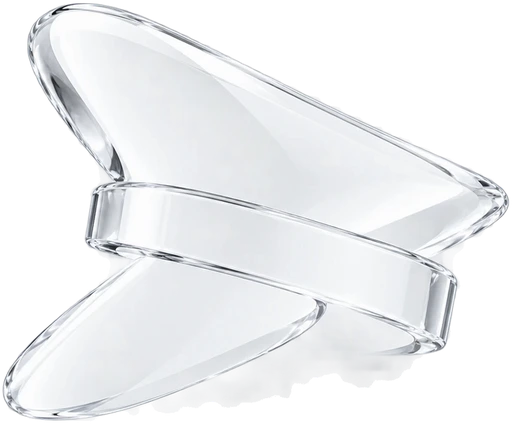
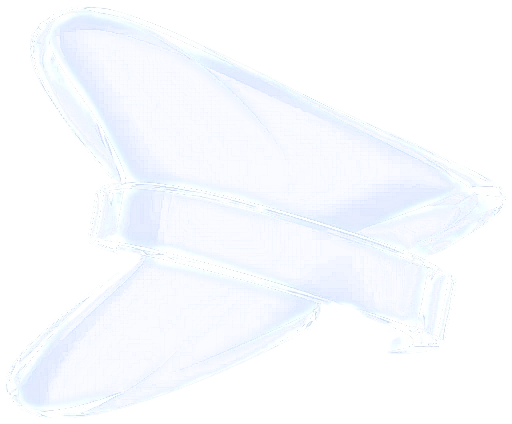
Fixes from the owner's review on staging
- Published list shows only this brand's posts made from the app (not every post on the shared publishing account)
- In-progress cards without an image show their section's glass icon (typography uses its cover) instead of an empty dark box
- Publish sections: the page header uses the same line icon as its tile; proper WhatsApp icon
- English home: the section name no longer appears twice
- Autopilot dark-mode icon is clear glass like the others
- Plans page: the plan-details button was pushed out of view; content now starts below the bar

Claude-Session: https://claude.ai/code/session_01P9QQ1ksSfAx6b9HF7mrN8g

diff --git a/studiomania/frontend/home2.js b/studiomania/frontend/home2.js
@@ -95,6 +95,11 @@ const NH = (() => {
   const GLKEY = { create: "app", brand: "brand", assets: "assets", dubhub: "voices", settings: "settings", progress: "progress", publish: "publish", reel: "reel", raw: "film",
     series: "series", carousel: "carousel", ad: "publish", typo: "create", dub: "voices", edit: "film", coaches: "characters", voice: "voices", music: "music", pilot: "autopilot", pubpost: "publish",
     inbox: "inbox", adsmgr: "adsmgr", audience: "audience", wacamp: "wacamp", bots: "inbox" };
+  // 📤 أيقونات أقسام النشر (خط بسيط): نفس الأيقونة في مربعات صفحة النشر وفي عنوان صفحة كل قسم لما تدخله
+  const PUB_IC = { pubpost: "M4 12l16-8-6 16-3-7z M11 13l9-9", inbox: "M4 5h16v11H9l-5 4z M8 9.5h8 M8 12.5h5", adsmgr: "M4 10v4h3l6 4V6L7 10z M16 9a4 4 0 0 1 0 6 M18.5 6.5a7.5 7.5 0 0 1 0 11",
+    audience: "M12 3a9 9 0 1 0 0 18 9 9 0 0 0 0-18z M12 7.5a4.5 4.5 0 1 0 0 9 4.5 4.5 0 0 0 0-9z M12 11a1 1 0 1 0 0 2 1 1 0 0 0 0-2z",
+    // فقاعة واتساب مستديرة بذيل تحت على الشمال، وجواها سماعة تليفون
+    wacamp: "M12 3.5a8.5 8.5 0 0 0-7.3 12.8L3.5 20.5l4.3-1.1A8.5 8.5 0 1 0 12 3.5z M9.3 8.3c.4-.5 1.1-.5 1.4 0l.7 1.3c.2.3.1.7-.1 1l-.5.5c.5 1 1.3 1.8 2.3 2.3l.5-.5c.3-.2.7-.3 1-.1l1.3.7c.5.3.5 1 0 1.4-.7.6-1.7.8-2.6.4-1.9-.8-3.4-2.3-4.2-4.2-.4-.9-.2-1.9.4-2.6z" };
   const iconOf = (k) => (k === "brand" ? `<div class="nh-plate">${brandMark()}</div>` : gi(k));
   const head = (id) => `<div class="nh-head"><div class="nh-name"><span class="latin en-k">${T[id].en}</span><b>${T[id].ar}</b></div>${GLKEY[id] ? `<span class="gi nh-glt">${glImg(GLKEY[id])}</span>` : iconOf(T[id].icon)}</div>`;
   const dots = (n, at) => `<div class="nh-dots">${Array.from({ length: n }, (_, i) => `<i class="${i < at ? "done" : i === at ? "now" : ""}"></i>`).join("")}</div>`;
@@ -294,7 +299,7 @@ const NH = (() => {
     }
     const t = T[key];
     if (window.I18N?.lang !== "en") return homeTitle(big(t.icon));
-    return `${big(t.icon)}<h1 class="latin">${t.en}</h1><div class="ar">${esc(t.ar)}</div>`;   // الاسم فقط، والشرح في فقاعة القسم
+    return `${big(t.icon)}<h1 class="latin">${t.en}</h1>`;   // الاسم مرة واحدة (السطر العربي كان بيتترجم لنفس الاسم بالإنجليزي فيتكرر)، والشرح في فقاعة القسم
   }
   // 🏠 عنوان الرئيسية ثابت (مش بيتغير مع القسم اللي الماوس عليه): «ابدأ من هنا» لحد ما العقل يفهمك ٣٠٪، وبعدها اسم العلامة
   function homeTitle(icon) {
@@ -489,7 +494,7 @@ const NH = (() => {
   const zooming = (on) => document.body.classList.toggle("nh-zooming", on);
 
   // صفحة جوه الرئيسية (اعمل جديد / الأصول / شغّال عليه): الأيقونة والاسم بيطيروا لحد ما يبقوا عنوان الصفحة
-  function glImg(key) { return `<img class="ic-l" src="/icons3d/${key}.webp?v=10" alt="" loading="lazy"><img class="ic-d" src="/icons3d/${key}_d.webp?v=10" alt="" loading="lazy">`; }
+  function glImg(key) { return `<img class="ic-l" src="/icons3d/${key}.webp?v=11" alt="" loading="lazy"><img class="ic-d" src="/icons3d/${key}_d.webp?v=11" alt="" loading="lazy">`; }
   const panel = (c, r, inner, attrs = "") => `<div class="nh-tile nh-panel" ${attrs} style="grid-column:span ${c};grid-row:span ${r}">${inner}</div>`;
   const PAGES = {
     // كل نوع كارت فيه أيقونته الزجاج الـ 3D (فاتحة وغامقة)، واسمه، وسطر بيشرح هيعمل إيه
@@ -506,8 +511,7 @@ const NH = (() => {
       const up = D.posts.filter((p) => p.status === "scheduled").length, bad = D.posts.filter((p) => p.status === "failed").length;
       const sub = { pubpost: up ? `${up} منشور متجدول${bad ? ` · ${bad} فشل` : ""}` : "جدول أول منشور", inbox: "التعليقات والرسائل والبوتات", adsmgr: "روّج وتابع الأرقام",
         audience: "من سيشتري، وكيف تصل إليه", wacamp: "رسائل لمشتركينك" };
-      const ic = { pubpost: "M4 12l16-8-6 16-3-7z M11 13l9-9", inbox: "M4 5h16v11H9l-5 4z M8 9.5h8 M8 12.5h5", adsmgr: "M4 10v4h3l6 4V6L7 10z M16 9a4 4 0 0 1 0 6 M18.5 6.5a7.5 7.5 0 0 1 0 11",
-        audience: "M12 3a9 9 0 1 0 0 18 9 9 0 0 0 0-18z M12 7.5a4.5 4.5 0 1 0 0 9 4.5 4.5 0 0 0 0-9z M12 11a1 1 0 1 0 0 2 1 1 0 0 0 0-2z", wacamp: "M4.5 19.5l1.2-3.6A8 8 0 1 1 8.6 18.6z M9 9.5c.3 2.3 2.2 4.2 4.5 4.5" };
+      const ic = PUB_IC;
       return `<div class="bl-hub nh-pubhub"><div class="bl-folds">${["pubpost", "inbox", "adsmgr", "audience", "wacamp"].map((id) => `<button type="button" class="bl-fd" data-id="${id}">
         <span class="bl-fi"><svg viewBox="0 0 24 24" width="30" height="30" aria-hidden="true"><path d="${ic[id]}"/></svg></span><b>${esc(T[id].ar)}</b><small>${esc(sub[id])}</small></button>`).join("")}</div></div>`;
     },
@@ -515,7 +519,9 @@ const NH = (() => {
   };
   // شغّال عليه (من البروتوتايب): دوّر، وفلتر بالحالة، وكل مشروع كارت بأيقونة قسمه وحالته
   const PJ_ICON = { series: "series", ads: "publish", free: "film" };
-  const PJ_AV = { series: "س", ads: "إ", free: "م" };   // دائرة صغيرة بأول حرف من القسم (مسلسل / إعلان / مونتاج حر)
+  const PJ_AV = { series: "س", ads: "إ", free: "م" };
+  // مشروع لسه مالوش صورة (مشهد لم يُولّد، دبلجة، تايبوجرافي): أيقونة قسمه الزجاج على الخلفية الفاتحة بدل مربع غامق فاضي
+  const DRAFT_IC = { scene: "film", dub: "voices", typo: "create", tv: "reel", flow: "create" };   // دائرة صغيرة بأول حرف من القسم (مسلسل / إعلان / مونتاج حر)
   const PJ_ART = ["linear-gradient(160deg, #4A4542, #24211F)", "linear-gradient(160deg, #57514C, #2B2724)", "linear-gradient(160deg, #46403C, #1E1B19)", "linear-gradient(160deg, #3A3836, #181718)", "linear-gradient(160deg, #4F5A63, #22282D)", "linear-gradient(160deg, #5A4F48, #2A2420)"];
   const pjState = (p) => p.render_status === "rendering" ? ["run", `يُصدّر${p.render_progress != null ? ` · ${Math.round(p.render_progress)}%` : ""}`]
     : p.render_status === "done" ? ["done", "صُدّر"] : p.render_status === "failed" ? ["fail", "التصدير توقف"] : ["run", "في المونتاج"];
@@ -525,7 +531,7 @@ const NH = (() => {
     const dcards = drafts.map((x, i) => {
       const when = x.updated_at ? new Date(x.updated_at).toLocaleDateString(UI_LOCALE(), { day: "numeric", month: "short" }) : "";
       return `<article class="nh-line nh-pj-card" data-draft="${x.kind}:${esc(x.id)}" data-st="run" data-q="${esc(String(x.name).toLowerCase())}" tabindex="0" role="button">
-        <div class="nh-pj-art" style="background:${x.thumb ? `center/cover no-repeat url('${esc(x.thumb)}'), ` : ""}${PJ_ART[i % PJ_ART.length]}"></div>
+        <div class="nh-pj-art" style="${x.thumb ? `background:center/cover no-repeat url('${esc(x.thumb)}'), ${PJ_ART[i % PJ_ART.length]}` : ""}">${x.thumb ? "" : glImg(DRAFT_IC[x.kind] || "progress")}</div>
         <div class="nh-pj-name"><span class="nh-pj-av s-tpl">ق</span><b>${esc(x.name)}</b></div>
         <small class="st-run">${esc(x.sec)} · ${esc(x.step)}${when ? ` · ${when}` : ""}</small></article>`;
     }).join("");
@@ -534,7 +540,7 @@ const NH = (() => {
       const when = p.updated_at ? new Date(p.updated_at).toLocaleDateString(UI_LOCALE(), { day: "numeric", month: "short" }) : "";
       const pct = p.render_status === "rendering" && p.render_progress != null ? Math.round(p.render_progress) : null;
       return `<article class="nh-line nh-pj-card" data-proj="${esc(p.id)}" data-st="${k}" data-q="${esc(p.name.toLowerCase())}" tabindex="0" role="button">
-        <div class="nh-pj-art" style="background:${p.cover_url ? `center/cover no-repeat url('${esc(p.cover_url)}'), ` : ""}${PJ_ART[(p.id.charCodeAt(0) + p.id.charCodeAt(1)) % PJ_ART.length]}">${pct != null ? `<span class="nh-pj-bar"><i style="width:${pct}%"></i></span>` : ""}</div>
+        <div class="nh-pj-art" style="${p.cover_url ? `background:center/cover no-repeat url('${esc(p.cover_url)}'), ${PJ_ART[(p.id.charCodeAt(0) + p.id.charCodeAt(1)) % PJ_ART.length]}` : ""}">${p.cover_url ? "" : glImg(GLKEY[PJ_ICON[p.section]] || "film")}${pct != null ? `<span class="nh-pj-bar"><i style="width:${pct}%"></i></span>` : ""}</div>
         <div class="nh-pj-name"><span class="nh-pj-av s-${esc(p.section)}">${PJ_AV[p.section] || "م"}</span><b>${esc(p.name)}</b></div>
         <small class="st-${k}">${esc(SEC[p.section]?.[0] || "")} · ${label}${when ? ` · ${when}` : ""}</small></article>`;
     }).join("");
@@ -566,7 +572,9 @@ const NH = (() => {
   const stopMedia = () => { MotionPage.close(); VoicesPage.close(); MusicPage.close(); CharactersPage.close?.(); Ref2PromptPage.close(); RivalsPage.close(); ComicsPage.close(); BrainLibPage.close(); AutoPage.close(); };
   let pageArg = null, pStack = [];
   // عنوان الصفحة (من البروتوتايب): الأيقونة الزجاج كبيرة، وفوق الاسم اسم القسم بالإنجليزي بالبرتقالي
-  const titleHTML = (t, key) => `<div class="nh-name"><span class="latin en-k">${t.en}</span><b>${esc(t.ar)}</b></div><span class="gi nh-glt">${glImg(GLKEY[key] || GLKEY[t.icon] || "create")}</span>`;
+  const titleHTML = (t, key) => `<div class="nh-name"><span class="latin en-k">${t.en}</span><b>${esc(t.ar)}</b></div>${PUB_IC[key]
+    ? `<span class="bl-fi nh-pub-ti"><svg viewBox="0 0 24 24" width="30" height="30" aria-hidden="true"><path d="${PUB_IC[key]}"/></svg></span>`
+    : `<span class="gi nh-glt">${glImg(GLKEY[key] || GLKEY[t.icon] || "create")}</span>`}`;
   const backLabel = () => { document.getElementById("nhBackT").textContent = pStack.length ? "رجوع" : "الرئيسية"; };
   // الأصول: تابات بالأيقونات الزجاج بين الشخصيات والتعليق الصوتي والموسيقى، والشخصيات أول واحدة
   const AS_TABS = [["coaches", "characters", "الشخصيات"], ["voice", "voices", "التعليق الصوتي"], ["music", "music", "الموسيقى"]];
@@ -883,7 +891,7 @@ const NH = (() => {
         sec: `قالب «${v.template_name || ""}»`, step: v.status === "failed" ? "توقف" : "ما زال يُنشأ", updated_at: v.updated_at, thumb: v.thumb })),
       // تايبوجرافي لسه ما اتصدّرش، ودبلجة لسه مفيهاش ولا لغة جاهزة
       ...typos.filter((t) => !t.done).map((t) => ({ kind: "typo", id: t.id, name: t.name || "تايبوجرافي", sec: "تايبوجرافي",
-        step: t.busy ? "يشتغل الآن" : t.status === "failed" ? "توقف" : "لم يُصدّر بعد", updated_at: t.updated_at })),
+        step: t.busy ? "يشتغل الآن" : t.status === "failed" ? "توقف" : "لم يُصدّر بعد", updated_at: t.updated_at, thumb: t.thumb || "/gallery/typo.jpg" })),
       ...(dubs.items || []).filter((x) => !x.done).map((x) => ({ kind: "dub", id: x.id, name: x.name || "دبلجة", sec: "ترجمة ودبلجة",
         step: x.busy ? "يشتغل الآن" : "لا يوجد بعد لغة جاهزة", updated_at: x.updated_at })),
       ...scenes.filter((x) => x.busy || !x.takes).map((x) => ({ kind: "scene", id: x.id, name: x.name || "مشهد", sec: "استوديو المشهد",

diff --git a/studiomania/frontend/home2.css b/studiomania/frontend/home2.css
@@ -2488,6 +2488,9 @@ label.dim { opacity: .4; }
 /* 💳 باقتي ونقاطي: الشكل في plans-view.js. الصفحة شاشة واحدة من غير عنوان كبير (الاسم في المسار اللي فوق) */
 #nh .nh-pgrid[data-key="plans"] { display: block; min-height: 0; height: 100%; overflow: auto; }
 #nh .nh-page:has(.nh-pgrid[data-key="plans"]) .nh-ptitle { visibility: hidden; }
+/* المحتوى (والكروت المستخبية جوّه) أطول من الصفحة، فالتوسيط كان بيزق زرار «تفاصيل الباقات» لفوق برّه المساحة الظاهرة.
+   safe: لو أطول من المساحة يبدأ من فوق بدل ما يتقص */
+#nh .bq-wrap .pv-mid { align-content: safe center; }
 body:has(#nhPGrid[data-key="plans"]) #nhCorner { visibility: hidden; }
 #nh .bq-wrap { min-height: 100%; height: 100%; }
 #nh .bq-wrap > .pv { height: 100%; }

diff --git a/studiomania/frontend/home2-gl.js b/studiomania/frontend/home2-gl.js
@@ -410,7 +410,7 @@ window.NHGL = (stage, getClient) => {
   const IMGS = ["create", "settings", "app", "brand", "assets", "progress", "publish", "reel", "film", "series", "carousel", "characters", "voices", "music", "backgrounds", "autopilot"], loader = new THREE.TextureLoader(), imgPlanes = [];
   // الصور بتتحمّل مرة واحدة وتترفع على كارت الشاشة قبل ما تتعرض (عشان مفيش رعشة ولا مربع فاضي)
   const texCache = {};
-  const texUrl = (key, d) => `/icons3d/${key}${d ? "_d" : ""}.webp?v=10`;
+  const texUrl = (key, d) => `/icons3d/${key}${d ? "_d" : ""}.webp?v=11`;
   function loadTex(url, cb) {
     const c = texCache[url] || (texCache[url] = { t: null, cbs: [] });
     if (c.t) return cb && cb(c.t);

diff --git a/studiomania/backend/app.py b/studiomania/backend/app.py
@@ -4046,7 +4046,7 @@ def _remote_orphans() -> list[dict]:
 
 @app.get("/api/posts/published")
 def published_posts():
-    """ما نُشر: من Zernio (بلينك المنشور على كل منصة)، وإذا لا يوجد Zernio من القائمة هنا."""
+    """ما نُشر: منشورات العلامة المختارة بس (اللي اتعملت من البرنامج)، ولينك كل منصة من Zernio، وإذا لا يوجد Zernio من القائمة هنا."""
     with closing(db()) as conn:
         local = [post_to_dict(r) for r in conn.execute(POSTS_QUERY + " WHERE p.status = 'published' AND own(p.client_id) ORDER BY p.published_at DESC")]
     if publisher.service_name() != "zernio":
@@ -4064,6 +4064,8 @@ def published_posts():
     out = []
     for r in remote:
         ours = by_remote.get(r["id"])
+        if not ours:   # منشور مش من البرنامج ده أو من علامة تانية (نفس حساب خدمة النشر بيشيل منشورات ناس تانية): مايظهرش هنا
+            continue
         out.append({
             "id": r["id"], "content": r["content"], "media_url": r["media_url"] or (ours or {}).get("export_url"),
             "published_at": r["published_at"] or next((x["published_at"] for x in r["platforms"] if x.get("published_at")), None) or r["scheduled_for"],
